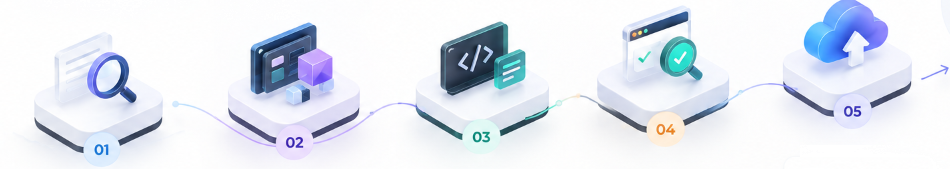
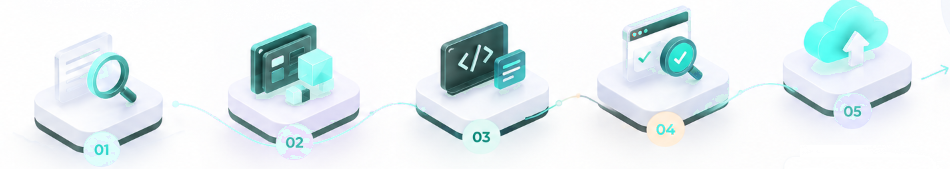
Unify Services page accent colors

diff --git a/src/app/services/page.tsx b/src/app/services/page.tsx
@@ -454,8 +454,8 @@ const SERVICES_TAB_DATA: ServiceTabData[] = [
       "Companies needing instant, reliable answers from internal technical documentation, contracts, and knowledge bases.",
     graphic: (
       <div className="relative w-20 h-16 sm:w-24 sm:h-20 flex items-center justify-center">
-        <div className="absolute inset-0 bg-[#C084FC]/20 rounded-full blur-xl" />
-        <div className="relative w-14 h-14 rounded-2xl bg-[#7E22CE] flex items-center justify-center text-white shadow-md">
+        <div className="absolute inset-0 bg-teal-400/20 rounded-full blur-xl" />
+        <div className="relative w-14 h-14 rounded-2xl bg-teal-600 flex items-center justify-center text-white shadow-md">
           <Cpu className="w-7 h-7 text-white" strokeWidth={2} />
         </div>
       </div>
@@ -479,8 +479,8 @@ const SERVICES_TAB_DATA: ServiceTabData[] = [
       "Businesses that have outgrown rigid off-the-shelf software and require custom portals or enterprise web platforms.",
     graphic: (
       <div className="relative w-20 h-16 sm:w-24 sm:h-20 flex items-center justify-center">
-        <div className="absolute inset-0 bg-[#818CF8]/20 rounded-full blur-xl" />
-        <div className="relative w-14 h-14 rounded-2xl bg-[#4338CA] flex items-center justify-center text-white shadow-md">
+        <div className="absolute inset-0 bg-teal-400/20 rounded-full blur-xl" />
+        <div className="relative w-14 h-14 rounded-2xl bg-teal-600 flex items-center justify-center text-white shadow-md">
           <Layers className="w-7 h-7 text-white" strokeWidth={2} />
         </div>
       </div>
@@ -504,8 +504,8 @@ const SERVICES_TAB_DATA: ServiceTabData[] = [
       "Enterprises managing fragmented tools and databases that require unified, real-time data sync without data loss.",
     graphic: (
       <div className="relative w-20 h-16 sm:w-24 sm:h-20 flex items-center justify-center">
-        <div className="absolute inset-0 bg-[#FBBF24]/20 rounded-full blur-xl" />
-        <div className="relative w-14 h-14 rounded-2xl bg-[#D97706] flex items-center justify-center text-white shadow-md">
+        <div className="absolute inset-0 bg-teal-400/20 rounded-full blur-xl" />
+        <div className="relative w-14 h-14 rounded-2xl bg-teal-600 flex items-center justify-center text-white shadow-md">
           <Plug className="w-7 h-7 text-white" strokeWidth={2} />
         </div>
       </div>
@@ -529,8 +529,8 @@ const SERVICES_TAB_DATA: ServiceTabData[] = [
       "Founders and enterprise tech leaders looking for a senior full-stack pod to ship production-ready features rapidly.",
     graphic: (
       <div className="relative w-20 h-16 sm:w-24 sm:h-20 flex items-center justify-center">
-        <div className="absolute inset-0 bg-[#34D399]/20 rounded-full blur-xl" />
-        <div className="relative w-14 h-14 rounded-2xl bg-[#059669] flex items-center justify-center text-white shadow-md">
+        <div className="absolute inset-0 bg-teal-400/20 rounded-full blur-xl" />
+        <div className="relative w-14 h-14 rounded-2xl bg-teal-600 flex items-center justify-center text-white shadow-md">
           <Code2 className="w-7 h-7 text-white" strokeWidth={2} />
         </div>
       </div>
